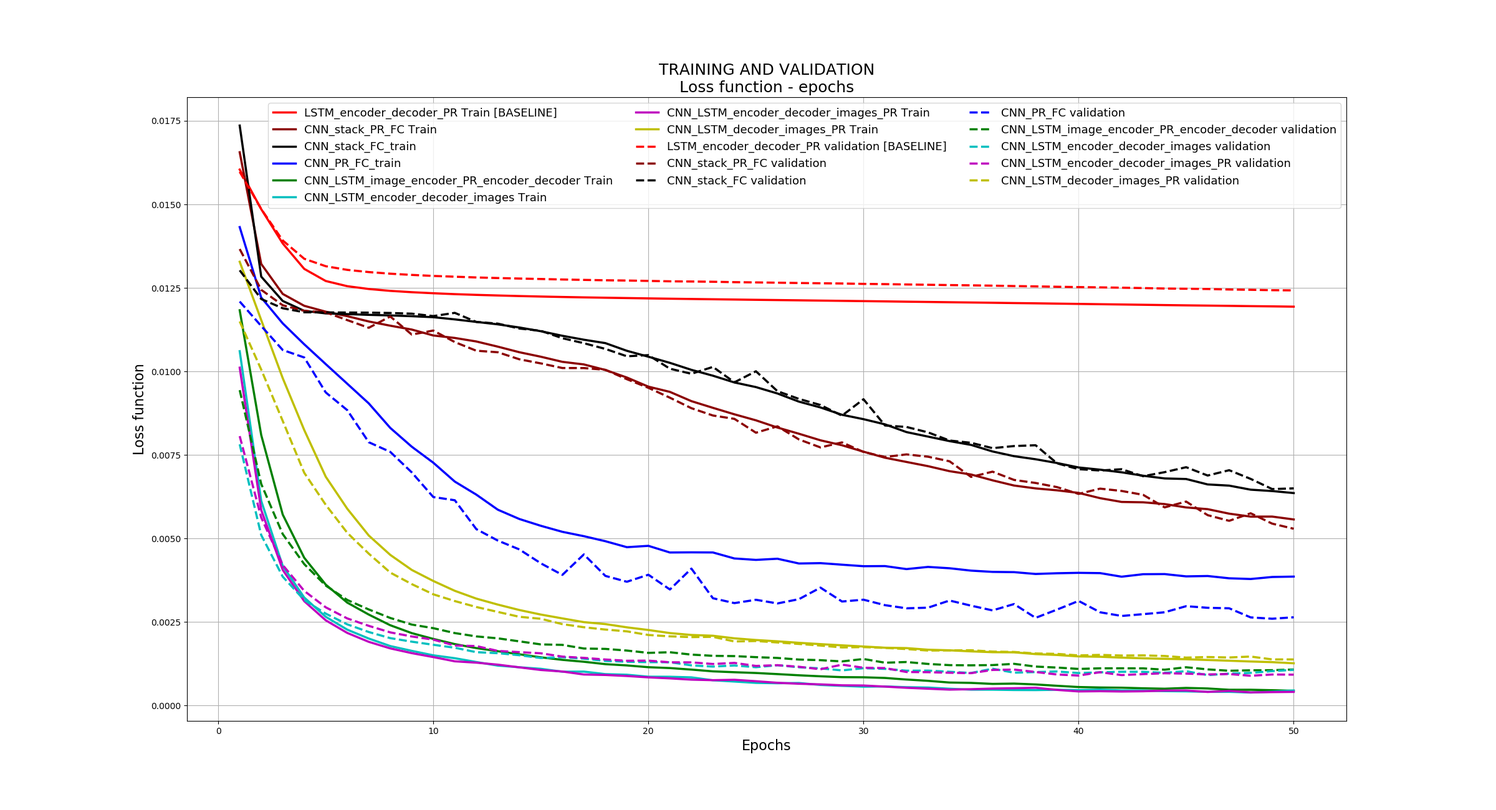
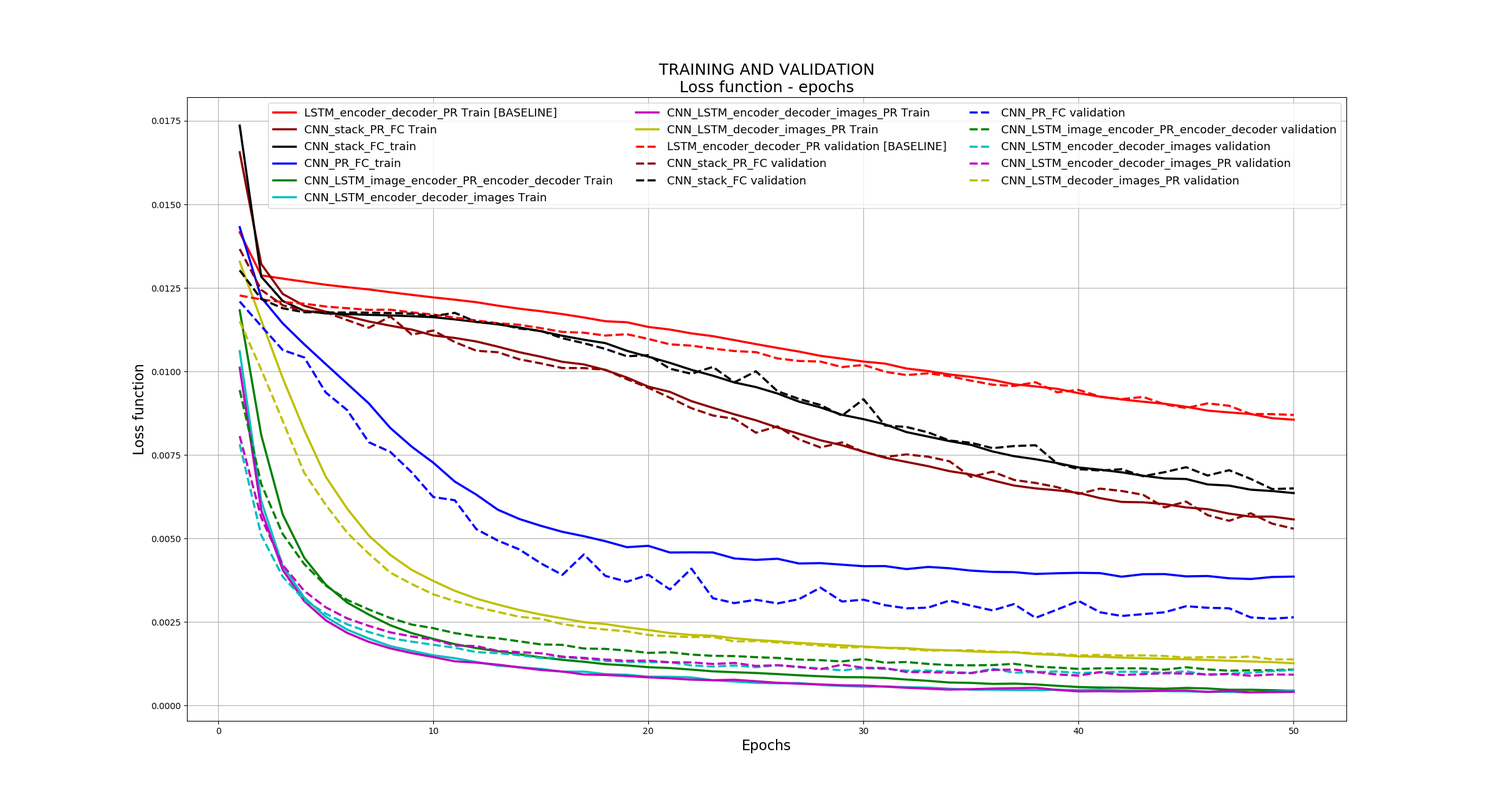
update files

diff --git a/Pre/test.py b/Pre/test.py
@@ -131,8 +131,8 @@ def main(args, num_epochs = 30):
             args['model_type']      (str): model type
             args['encoder_latent_vector'] (int): size of encoder latent vector
             args['decoder_latent_vector'] (int): size of decoder latent vector
-            args['time_to_predict']         (int): number of seconds to predict
-            args['use_sec']          (int): number of seconds using like input
+            args['future_window_size']         (int): number of seconds to predict
+            args['past_window_size']          (int): number of seconds using like input
             args['frame_interval']   (int): interval at witch the data was generated
             args["weight_decay"]     (float): L2 penalty
             args["use_n_episodes"]   (int): number of episodes use for work
@@ -158,8 +158,8 @@ def main(args, num_epochs = 30):
     encoder_latent_vector = args['encoder_latent_vector']
     decoder_latent_vector = args['decoder_latent_vector']
     evaluate_print = 1
-    time_to_predict = args['time_to_predict']              # 5
-    use_sec = args['use_sec']                # 5,
+    future_window_size = args['future_window_size']              # 5
+    past_window_size = args['past_window_size']                # 5,
     frame_interval = args['frame_interval']  # 12
     weight_decay = args["weight_decay"]      # 1e-3
     use_n_episodes = args["use_n_episodes"]    # 320
@@ -168,8 +168,8 @@ def main(args, num_epochs = 30):
     print(args)
 
     im_in_one_second = int(24/frame_interval)
-    predict_n_pr = im_in_one_second*time_to_predict
-    use_n_im = im_in_one_second*use_sec
+    predict_n_pr = im_in_one_second*future_window_size
+    use_n_im = im_in_one_second*past_window_size
     use_LSTM = False
     use_stack = False
     use_n_channels = 3
@@ -204,7 +204,7 @@ def main(args, num_epochs = 30):
     today = datetime.now().strftime("%Y-%m-%d %H:%M:%S")
 
     # Create folders for results
-    base_dir = "./Pre/results"+test_dir+"/test_"+ model_type +"_using_" +str(use_sec)+  "_s_to_predict_"+str(time_to_predict)+ "_s_lr_" + str(learning_rate) + "_" + today
+    base_dir = "./Pre/results"+test_dir+"/test_"+ model_type +"_using_" +str(past_window_size)+  "_s_to_predict_"+str(future_window_size)+ "_s_lr_" + str(learning_rate) + "_" + today
     ress_dir = base_dir+ "/result"
     lable_dir = base_dir+ "/labels"
     weight_dir = base_dir + "/weight"
@@ -219,7 +219,7 @@ def main(args, num_epochs = 30):
 
     # parametres for different models
 
-    tmp_str = '/' + model_type + "_predict_" + str(time_to_predict) + "_s_using_" + str(use_sec) + "_s_lr_" + str(learning_rate)
+    tmp_str = '/' + model_type + "_predict_" + str(future_window_size) + "_s_using_" + str(past_window_size) + "_s_lr_" + str(learning_rate)
 
     # split our dataset for three parts
     _ , _, test_labels = loadLabels(train_folder, 0, use_n_episodes, seq_per_ep, p_train=0.7, p_val=0.15, p_test=0.15)
@@ -248,8 +248,8 @@ def main(args, num_epochs = 30):
     n_test = len(test_loader)*batchsize
 
     if change_fps:
-        predict_n_pr = time_to_predict
-        use_n_im = use_sec
+        predict_n_pr = future_window_size
+        use_n_im = past_window_size
 
     print("Model  --->  ", model_type)
     if model_type == "CNN_stack_PR_FC":
@@ -261,7 +261,7 @@ def main(args, num_epochs = 30):
     elif model_type == "CNN_stack_FC":
         model = CNN_stack_FC(cuda = cuda, num_channel = use_n_channels,  cnn_fc_size = 1024, num_output=predict_n_pr*2)
     elif model_type == "CNN_LSTM_encoder_decoder_images_PR":
-        model = CNN_LSTM_encoder_decoder_images_PR(cuda = cuda, encoder_input_size = use_sec*1026, encoder_hidden_size = encoder_latent_vector, decoder_input_size = encoder_latent_vector, decoder_hidden_size = decoder_latent_vector,  output_size = 2*time_to_predict)
+        model = CNN_LSTM_encoder_decoder_images_PR(cuda = cuda, encoder_input_size = use_n_im*1026, encoder_hidden_size = encoder_latent_vector, decoder_input_size = encoder_latent_vector, decoder_hidden_size = decoder_latent_vector,  output_size = 2*predict_n_pr)
     elif model_type == "LSTM_encoder_decoder_PR":
         model = LSTM_encoder_decoder_PR(cuda = cuda, encoder_input_size = use_n_im*2, encoder_hidden_size = 300, decoder_hidden_size = 300,  output_size = 2*predict_n_pr)
     elif model_type == "CNN_LSTM_encoder_decoder_images":
@@ -305,10 +305,10 @@ def main(args, num_epochs = 30):
     with th.no_grad():
 
         # Preparation files for saving origin and predicted pitch and roll for visualization
-        origins = [{} for i in range(time_to_predict)]
-        origin_names = [lable_dir+ '/origin' + model_type +'_use_' + str(use_sec) + '_s_to_predict_'+str(i+1)+':'+str(time_to_predict)+'_lr_'+str(learning_rate)+'.json' for i in range(time_to_predict)]
-        preds = [{} for i in range(time_to_predict)]
-        pred_names = [lable_dir+'/pred' + model_type +'_use_' + str(use_sec) + '_s_to_predict_'+str(i+1)+':'+str(time_to_predict)+'_lr_'+str(learning_rate)+'.json' for i in range(time_to_predict)]
+        origins = [{} for i in range(predict_n_pr)]
+        origin_names = [lable_dir+ '/origin' + model_type +'_use_' + str(past_window_size) + '_s_to_predict_'+str(i+1)+':'+str(future_window_size)+'_lr_'+str(learning_rate)+'.json' for i in range(predict_n_pr)]
+        preds = [{} for i in range(predict_n_pr)]
+        pred_names = [lable_dir+'/pred' + model_type +'_use_' + str(past_window_size) + '_s_to_predict_'+str(i+1)+':'+str(future_window_size)+'_lr_'+str(learning_rate)+'.json' for i in range(predict_n_pr)]
 
         for key, data  in enumerate(test_loader):
             # use right testing process for different models
@@ -321,7 +321,7 @@ def main(args, num_epochs = 30):
                 # Convert to pytorch variables
                 inputs, p_and_roll = Variable(inputs), Variable(p_and_roll)
                 # test through the sequence
-                loss, origins, preds  = test(cuda, change_fps, key, origins, preds , batchsize, inputs, p_and_roll, model, loss_fn, time_to_predict, use_sec, use_2_encoders)
+                loss, origins, preds  = test(cuda, change_fps, key, origins, preds , batchsize, inputs, p_and_roll, model, loss_fn, predict_n_pr, use_n_im, use_2_encoders)
                 test_loss += loss
 
             else:
@@ -347,7 +347,7 @@ def main(args, num_epochs = 30):
                 loss = loss_fn(predictions, targets)/ predict_n_pr
                 test_loss += loss.item()
 
-        for i in range(time_to_predict):
+        for i in range(predict_n_pr):
             json.dump(preds[i], open(pred_names[i],'w'))
             json.dump(origins[i], open(origin_names[i],'w'))
 
@@ -385,14 +385,14 @@ if __name__ == '__main__':
     parser.add_argument('--seed', help='Random Seed', default=42, type=int)
     parser.add_argument('--no_cuda', action='store_true', default=False, help='Disables CUDA training')
 
-    parser.add_argument('--load_weight_file', help='Enter path to file with saved weight', default="Pre/results/train_CNN_LSTM_encoder_decoder_images_PR_using_20_s_to_predict_30_s_lr_0.0001937_2019-08-12 18_29_35/weight/CNN_LSTM_encoder_decoder_images_PR_predict_30_s_using_20_s_lr_0.0001937_tmp.pth", type=str, )
+    parser.add_argument('--load_weight_file', help='Enter path to file with saved weight', default="Pre/results/train_CNN_LSTM_encoder_decoder_images_PR_using_20_s_to_predict_30_s_lr_0.0001937_2019-08-12 18_29_35/weight/CNN_LSTM_encoder_decoder_images_PR_predict_30_s_using_20_s_lr_0.0001937_tmp.pth", type=str)
 
     parser.add_argument('--model_type', help='Model type: cnn', default="CNN_LSTM_encoder_decoder_images_PR", type=str, choices=['CNN_stack_FC_first', 'CNN_stack_FC', 'CNN_LSTM_image_encoder_PR_encoder_decoder', 'CNN_PR_FC', 'CNN_LSTM_encoder_decoder_images', 'LSTM_encoder_decoder_PR', 'CNN_stack_PR_FC', 'CNN_LSTM_encoder_decoder_images_PR', 'CNN_LSTM_decoder_images_PR'])
     parser.add_argument('--encoder_latent_vector', help='Size of encoder-latent vector for LSTM', default= 700, type=int)
     parser.add_argument('--decoder_latent_vector', help='Size of decoder-latent vector for LSTM', default= 408, type=int)
 
-    parser.add_argument('-t', '--time_to_predict', help='Time (seconds) to predict', default= 30, type=int)
-    parser.add_argument('-u', '--use_sec', help='How many seconds using for prediction ', default= 20, type=int)
+    parser.add_argument('-fws', '--future_window_size', help='Time (seconds) to predict', default= 30, type=int)
+    parser.add_argument('-pws', '--past_window_size', help='How many seconds using for prediction ', default= 20, type=int)
     parser.add_argument('--frame_interval', help='frame_interval which used for data generetion ', default= 12, type=int)
     parser.add_argument('-wd', '--weight_decay', help='Weight_decay', default=0.00093501455, type=float)
     parser.add_argument('--use_n_episodes', help='How many episodes use as dataset ', default= 540, type=int)
@@ -412,8 +412,8 @@ if __name__ == '__main__':
     hyperparams['model_type'] = args.model_type
     hyperparams['encoder_latent_vector'] = args.encoder_latent_vector
     hyperparams['decoder_latent_vector'] = args.decoder_latent_vector
-    hyperparams['time_to_predict'] = args.time_to_predict
-    hyperparams['use_sec'] = args.use_sec
+    hyperparams['future_window_size'] = args.future_window_size
+    hyperparams['past_window_size'] = args.past_window_size
     hyperparams['frame_interval'] = args.frame_interval
     hyperparams["weight_decay"] = args.weight_decay
     hyperparams["use_n_episodes"] = args.use_n_episodes

diff --git a/Pre/help_plot.py b/Pre/help_plot.py
@@ -26,9 +26,9 @@ CNN_LSTM_decoder_images_PR_test = np.array([ 0.0010822582281316104 for i in rang
 CNN_LSTM_decoder_images_PR_train = 10**(-2)*np.array([1.3282508666103032, 1.1539375038957724, 0.97992332371813, 0.8246508173270679, 0.6848861787161092, 0.5890530100139025, 0.5089064859735069, 0.450892181312632, 0.40584170112660073, 0.3728213533091502, 0.3433560807338005, 0.32004403371003365, 0.30212311998784114, 0.2858774395205588, 0.2722886361775913, 0.2608024798113332, 0.24958262937710918, 0.24381215887738383, 0.2340264998937166, 0.22607153343323846, 0.2168821639925455, 0.2111716200948082, 0.20887598146661102, 0.20113117971180483, 0.19608591299330463, 0.1921691887554676, 0.1877021430040239, 0.18378249770130523, 0.18010896532112017, 0.17663763750905312, 0.17301777501233376, 0.17187591011245404, 0.16702508527157983, 0.16526584238094347, 0.16212450076682378, 0.15965189720507322, 0.1592206139464639, 0.15401506041657298, 0.15130033549655722, 0.14703280007046077, 0.14595987039908606, 0.143354821125693, 0.14133935645689993, 0.1398486552983656, 0.1385273096422034, 0.13623565692441225, 0.13414565010637206, 0.131796836338964, 0.12984643456622905, 0.12644674010594847])
 CNN_LSTM_decoder_images_PR_val =  10**(-2)*np.array([1.149647639443477, 1.0056505631655455, 0.8519152800242106, 0.6966480612754822, 0.6007877939070264, 0.5169874165828029, 0.4545799115051826, 0.3979080294569334, 0.36340940510854125, 0.33288830736031133, 0.31267232028767467, 0.2949138443606595, 0.28017328974480427, 0.2656097508346041, 0.25965356345598894, 0.243650972067068, 0.23429338509837788, 0.2273747088232388, 0.2220046225314339, 0.21108785488953194, 0.2071071621806671, 0.20476242488560578, 0.20562237710691988, 0.1917591974294434, 0.1931646792218089, 0.1887707928350816, 0.18429883134861788, 0.17954336867357293, 0.1739248641145726, 0.17485990771092474, 0.17250529606826603, 0.16902335453778505, 0.16454825294204056, 0.16498798737302423, 0.1654624737178286, 0.16142277939555544, 0.16032095222423473, 0.1558125791295121, 0.15454992380303642, 0.14989656629040837, 0.15157869881174219, 0.14963105282125375, 0.15007653661693138, 0.1482540943349401, 0.14339420711621642, 0.14510116113039356, 0.14379899250343442, 0.1465887106799831, 0.13804519393791756, 0.1380148386427512])
 
-LSTM_encoder_decoder_PR_test = np.array([ 0.01237753080943274 for i in range(50)])
-LSTM_encoder_decoder_PR_train = 10**(-2)*np.array([1.6042345406566845, 1.4858389182465401, 1.3831916674707374, 1.3069532316257344, 1.2706737445191816, 1.2551561034291137, 1.2467678371281858, 1.2411398545620924, 1.2371898787294298, 1.2340232835593798, 1.231358934801521, 1.229174115698362, 1.2273524953911068, 1.225634429650051, 1.2241827378525063, 1.2228801557530007, 1.2216839941007132, 1.220597549017968, 1.2196077395507947, 1.218615832461163, 1.217711358438477, 1.2168495456361152, 1.2160356479353465, 1.2151986838595823, 1.2143556656091348, 1.2136249542104227, 1.2128563171767808, 1.2120468992779547, 1.2112619094418509, 1.2104652188751346, 1.2096434443568191, 1.208788588814807, 1.2080040233992437, 1.2071555506781482, 1.2063450063578784, 1.2055288962293285, 1.204610905685984, 1.203865915246255, 1.2029862278207133, 1.2021115327135046, 1.2012342024092557, 1.2003617167988039, 1.1995087793849886, 1.198613537964246, 1.1977963385680783, 1.1970430507707732, 1.1962816695078335, 1.1954311167504241, 1.1947329544151821, 1.1938847865618714])
-LSTM_encoder_decoder_PR_val = 10**(-2)*np.array([1.5974945433083036, 1.4861858760317168, 1.3920839018528424, 1.3372436491033388, 1.3149236284551165, 1.303979470616295, 1.2974278616999824, 1.2925825392206511, 1.2888954686267036, 1.2858637652936438, 1.2835664704205498, 1.2813149197470575, 1.2795214378644548, 1.278016831548441, 1.2766804457420395, 1.2751997995471198, 1.2739571343575204, 1.2728512080179322, 1.2720754133566978, 1.2709589379410895, 1.2697516541395868, 1.2691691310869324, 1.2684305627194663, 1.2672025651212722, 1.2664992510089799, 1.2655941473822745, 1.2646585377672361, 1.2638575530477933, 1.263232288202123, 1.2620213811123182, 1.261306834954118, 1.2603233317061076, 1.2593897325651986, 1.2584364603436182, 1.2576948023504682, 1.2567373436121714, 1.2555434885952208, 1.2545728198592625, 1.2534463866835548, 1.2524771371058054, 1.251628641630449, 1.250596527778913, 1.2495212936921725, 1.2481794618661441, 1.2474792521624338, 1.246755454866659, 1.2452018979404653, 1.2443368544890767, 1.24321011678567, 1.2425950447481775])
+LSTM_encoder_decoder_PR_test = np.array([ 0.007235203275753968 for i in range(50)])
+LSTM_encoder_decoder_PR_train = np.array([0.014165229788283721, 0.012875211949203177, 0.012778732004345105, 0.012686206021189262, 0.012594192796203184, 0.012521414780541987, 0.012453988394750062, 0.012370600395144956, 0.012292366615065964, 0.012215707958492326, 0.01214763929393129, 0.012072664738956532, 0.011968592886135356, 0.011878168570899194, 0.011802301151297425, 0.011715931777832329, 0.011614925077845973, 0.011502582092492384, 0.011471643109261775, 0.01133115718635233, 0.01125373868572135, 0.011138936341156027, 0.011055280254172382, 0.010937719832852109, 0.010817431334045625, 0.010703433712270097, 0.010593947891052478, 0.010466775723389186, 0.010382755709591733, 0.010295553633602716, 0.010235016858438865, 0.01008713954398709, 0.010011693195683555, 0.009909106191501395, 0.009836336300711691, 0.00974623435994737, 0.009614367355128557, 0.009551115984958346, 0.009479825768793356, 0.009349815454000213, 0.009243806116416464, 0.009162403409466094, 0.009092989444438915, 0.009032131676765753, 0.008942141815165465, 0.008826953472442738, 0.008772599263831065, 0.008726100737769757, 0.008599781978701818, 0.008555552147756128])
+LSTM_encoder_decoder_PR_val = np.array([0.012272268688927094, 0.012156021408736705, 0.012074279847244422, 0.012028381321579218, 0.011942439495275419, 0.011892160711189112, 0.011843404173851014, 0.011846507200971246, 0.011767149996012449, 0.011700845323503017, 0.01161170918494463, 0.011526711409290631, 0.011441395276536544, 0.01139592013011376, 0.011296294070780278, 0.011182355120157202, 0.011159159895032644, 0.011073671188205481, 0.011114929088701804, 0.010971920782079298, 0.01081076730042696, 0.010772396189471086, 0.010682146499554316, 0.010610604348282019, 0.010577893008788426, 0.010389495237420002, 0.0103132170625031, 0.010296403430402279, 0.010129606413344542, 0.010194719272355239, 0.009991677788396677, 0.009890421542028587, 0.009944636436800162, 0.009857278938094774, 0.00972411297261715, 0.009603220596909523, 0.009565110256274541, 0.00967754414305091, 0.009376846222827832, 0.009445877109343807, 0.009246470096210638, 0.009171370013306538, 0.009237806126475335, 0.009014942279706398, 0.00890328319122394, 0.009044212366764745, 0.008971970435231924, 0.008725419330100218, 0.008721979583303134, 0.008697197446599603])
 
 CNN_stack_PR_FC_test = np.array([ 0.005143027688237898 for i in range(50)])
 CNN_stack_PR_FC_train = np.array([0.016560708440594235, 0.013217757056238797, 0.012320067162432198, 0.011964624523589353, 0.011788254858539352, 0.011654528371884295, 0.01149572105638964, 0.0113689910624844, 0.01125349970270862, 0.011076344719666214, 0.011002177616388028, 0.010896864630510364, 0.010741888215976223, 0.010575076114860768, 0.010440142023517698, 0.010287487980435198, 0.010209802500815745, 0.01004346754217415, 0.009817515581160924, 0.00954458972588533, 0.009387889215810541, 0.009110628027591924, 0.0089106451816646, 0.00871633748822617, 0.008536617629634181, 0.00832053943304345, 0.008134811857434095, 0.007938415523759037, 0.00779042814041154, 0.0075981657565483505, 0.007417000391968649, 0.0072903857953002995, 0.007164668058976531, 0.007014508847858898, 0.006914894969668239, 0.0067404005171309385, 0.006584745294739545, 0.006498704386549949, 0.006441421681610902, 0.006364295741253234, 0.006206540337034484, 0.006093838326808698, 0.006082907618893275, 0.0060298477600434055, 0.005929388151996119, 0.005877657037860942, 0.005743025528609683, 0.005654015212609731, 0.0056556714555898785, 0.0055694865207802854])

diff --git a/Pre/train.py b/Pre/train.py
@@ -279,8 +279,8 @@ def main(args, num_epochs = 30):
             args['model_type']      (str): model type
             args['encoder_latent_vector'] (int): size of encoder latent vector
             args['decoder_latent_vector'] (int): size of decoder latent vector
-            args['time_to_predict']         (int): number of seconds to predict
-            args['use_sec']          (int): number of seconds using like input
+            args['future_window_size']         (int): number of seconds to predict
+            args['past_window_size']          (int): number of seconds using like input
             args['frame_interval']   (int): interval at witch the data was generated
             args["weight_decay"]     (float): L2 penalty
             args["use_n_episodes"]   (int): number of episodes use for work
@@ -305,8 +305,8 @@ def main(args, num_epochs = 30):
     encoder_latent_vector = args['encoder_latent_vector']
     decoder_latent_vector = args['decoder_latent_vector']
     evaluate_print = 1
-    time_to_predict = args['time_to_predict']              # 5
-    use_sec = args['use_sec']                # 5,
+    future_window_size = args['future_window_size']              # 5
+    past_window_size = args['past_window_size']                # 5,
     frame_interval = args['frame_interval']  # 12
     weight_decay = args["weight_decay"]      # 1e-3
     use_n_episodes = args["use_n_episodes"]    # 540
@@ -316,8 +316,8 @@ def main(args, num_epochs = 30):
 
     im_in_one_second = int(24/frame_interval)
 
-    predict_n_pr = im_in_one_second*time_to_predict
-    use_n_im = im_in_one_second*use_sec
+    predict_n_pr = im_in_one_second*future_window_size
+    use_n_im = im_in_one_second*past_window_size
 
     use_LSTM = False
     use_stack = False
@@ -358,7 +358,7 @@ def main(args, num_epochs = 30):
         today = datetime.now().strftime("%Y-%m-%d %H:%M:%S")
 
     # Create folders for results
-    base_dir = "./Pre/results"+test_dir+"/train_"+ model_type +"_using_" +str(use_sec)+  "_s_to_predict_"+str(time_to_predict)+ "_s_lr_" + str(learning_rate) + "_" + today
+    base_dir = "./Pre/results"+test_dir+"/train_"+ model_type +"_using_" +str(past_window_size)+  "_s_to_predict_"+str(future_window_size)+ "_s_lr_" + str(learning_rate) + "_" + today
     ress_dir = base_dir+ "/result"
     lable_dir = base_dir+ "/labels"
     weight_dir = base_dir + "/weight"
@@ -374,7 +374,7 @@ def main(args, num_epochs = 30):
 
     # parametres for different models
 
-    tmp_str = '/' + model_type + "_predict_" + str(time_to_predict) + "_s_using_" + str(use_sec) + "_s_lr_" + str(learning_rate)
+    tmp_str = '/' + model_type + "_predict_" + str(future_window_size) + "_s_using_" + str(past_window_size) + "_s_lr_" + str(learning_rate)
     best_model_weight_path = weight_dir + tmp_str + "_tmp.pth"
 
     # split our dataset for three parts
@@ -436,8 +436,8 @@ def main(args, num_epochs = 30):
     n_train, n_val, n_test = len(train_loader)*batchsize, len(val_loader)*batchsize, len(test_loader)*batchsize
 
     if change_fps:
-        predict_n_pr = time_to_predict
-        use_n_im = use_sec
+        predict_n_pr = future_window_size
+        use_n_im = past_window_size
 
     print("Model  --->  ", model_type)
     if model_type == "CNN_stack_PR_FC":
@@ -473,7 +473,7 @@ def main(args, num_epochs = 30):
 
     # Load model's weights
     if load_weight:
-        model.load_state_dict(torch.load(weight_dir+"/" + model_type + "_predict_" + str(time_to_predict) + "_s_using_" + str(use_sec) + "_s_lr_" + str(learning_rate) + "_tmp.pth"))
+        model.load_state_dict(torch.load(weight_dir+"/" + model_type + "_predict_" + str(future_window_size) + "_s_using_" + str(past_window_size) + "_s_lr_" + str(learning_rate) + "_tmp.pth"))
 
     # Move model to the GPU if possible
     if cuda:
@@ -646,9 +646,9 @@ def main(args, num_epochs = 30):
 
         # Preparation files for saving origin and predicted pitch and roll for visualization
         origins = [{} for i in range(predict_n_pr)]
-        origin_names = [lable_dir+ '/origin' + model_type +'_use_' + str(use_sec) + '_s_to_predict_'+str(i+1)+':'+str(predict_n_pr)+'_lr_'+str(learning_rate)+'.json' for i in range(predict_n_pr)]
+        origin_names = [lable_dir+ '/origin' + model_type +'_use_' + str(past_window_size) + '_s_to_predict_'+str(i+1)+':'+str(predict_n_pr)+'_lr_'+str(learning_rate)+'.json' for i in range(predict_n_pr)]
         preds = [{} for i in range(predict_n_pr)]
-        pred_names = [lable_dir+'/pred' + model_type +'_use_' + str(use_sec) + '_s_to_predict_'+str(i+1)+':'+str(predict_n_pr)+'_lr_'+str(learning_rate)+'.json' for i in range(predict_n_pr)]
+        pred_names = [lable_dir+'/pred' + model_type +'_use_' + str(past_window_size) + '_s_to_predict_'+str(i+1)+':'+str(predict_n_pr)+'_lr_'+str(learning_rate)+'.json' for i in range(predict_n_pr)]
 
         for key, data  in enumerate(test_loader):
             # use right testing process for different models
@@ -718,7 +718,7 @@ def main(args, num_epochs = 30):
 if __name__ == '__main__':
     parser = argparse.ArgumentParser(description='Train a line detector')
     parser.add_argument('-tf', '--train_folder', help='Training folder', type=str, required=True)
-    parser.add_argument('--num_epochs', help='Number of epoch', default= 60, type=int)
+    parser.add_argument('--num_epochs', help='Number of epoch', default= 50, type=int)
     parser.add_argument('--batchsize', help='Batch size', default= 24, type=int)
     parser.add_argument('-lr', '--learning_rate', help='Learning rate', default=0.0001, type=float)
     parser.add_argument('--opt', help='Choose optimizer: cnn', default="adam", type=str, choices=['adam', 'sgd'])
@@ -734,8 +734,8 @@ if __name__ == '__main__':
     parser.add_argument('--encoder_latent_vector', help='Size of encoder-latent vector for LSTM', default= 300, type=int)
     parser.add_argument('--decoder_latent_vector', help='Size of decoder-latent vector for LSTM', default= 300, type=int)
 
-    parser.add_argument('-t', '--time_to_predict', help='Time (seconds) to predict', default= 12, type=int)
-    parser.add_argument('-u', '--use_sec', help='How many seconds using for prediction ', default= 10, type=int)
+    parser.add_argument('-fws', '--future_window_size', help='Time (seconds) to predict', default= 12, type=int)
+    parser.add_argument('-pws', '--past_window_size', help='How many seconds using for prediction ', default= 10, type=int)
     parser.add_argument('--frame_interval', help='frame_interval which used for data generetion ', default= 12, type=int)
     parser.add_argument('-wd', '--weight_decay', help='Weight_decay', default=0.001, type=float)
     parser.add_argument('--use_n_episodes', help='How many episodes use as dataset ', default= 540, type=int)
@@ -759,8 +759,8 @@ if __name__ == '__main__':
         hyperparams['model_type'] = args.model_type
         hyperparams['encoder_latent_vector'] = args.encoder_latent_vector
         hyperparams['decoder_latent_vector'] = args.decoder_latent_vector
-        hyperparams['time_to_predict'] = args.time_to_predict
-        hyperparams['use_sec'] = args.use_sec
+        hyperparams['future_window_size'] = args.future_window_size
+        hyperparams['past_window_size'] = args.past_window_size
         hyperparams['frame_interval'] = args.frame_interval
         hyperparams["weight_decay"] = args.weight_decay
         hyperparams["use_n_episodes"] = args.use_n_episodes

diff --git a/Pre/plot_compare_predicted_and_original_PR.py b/Pre/plot_compare_predicted_and_original_PR.py
@@ -16,8 +16,8 @@ def denormalization(x, min_v = -90.0, max_v = 90.0 ):
 # Pre/results/test_CNN_LSTM_encoder_decoder_images_PR_using_20_s_to_predict_30_s_lr_0.0001115124882_2019-08-21 15:11:31/labels/predCNN_LSTM_encoder_decoder_images_PR_use_20_s_to_predict_1:30_lr_0.0001115124882.json
 # train_CNN_LSTM_encoder_decoder_images_PR_using_20_s_to_predict_30_s_lr_0.0001937_2019-08-12 18_29_35
 parser = argparse.ArgumentParser(description='Test a line detector')
-parser.add_argument('-o', '--origin_file', help="Original file. Ex: Pre/results/train_CNN_LSTM_encoder_decoder_images_PR_using_20_s_to_predict_30_s_lr_0.0001937_2019-08-12 18_29_35/labels/originCNN_LSTM_encoder_decoder_images_PR_use_20_s_to_predict_15_30_lr_0.0001937.json", type=str, required=True)
-parser.add_argument('-p', '--prediction_file', help="Predictin file. Ex: Pre/results/train_CNN_LSTM_encoder_decoder_images_PR_using_20_s_to_predict_30_s_lr_0.0001937_2019-08-12 18_29_35/labels/predCNN_LSTM_encoder_decoder_images_PR_use_20_s_to_predict_15_30_lr_0.0001937.json", type=str, required=True)
+parser.add_argument('-o', '--origin_file', help="Original file. Ex: Pre/results/train_LSTM_encoder_decoder_PR_using_10_s_to_predict_12_s_lr_0.0001_2019-08-24 22:40:34/labels/originLSTM_encoder_decoder_PR_use_10_s_to_predict_20:24_lr_0.0001.json", type=str, required=True)
+parser.add_argument('-p', '--prediction_file', help="Predictin file. Ex: Pre/results/train_LSTM_encoder_decoder_PR_using_10_s_to_predict_12_s_lr_0.0001_2019-08-24 22:40:34/labels/predLSTM_encoder_decoder_PR_use_10_s_to_predict_20:24_lr_0.0001.json", type=str, required=True)
 args = parser.parse_args()
 
 

diff --git a/Pre/README.md b/Pre/README.md
@@ -108,7 +108,7 @@ First, the basic settings were tested;
 The results of the experiments can be found in Table, which shows the normalized average MSE of the sum of pitch and roll over the predicted sequence (of 24 frames of length).
 
 <p align="center">
-<img width="900" src="plots/TRAIN_VAL_all_models_loss_function.png">
+<img width="900" src="plots/Results_for_all_models_train_val_test.png">
 </p>
 <p align="justify">
 
@@ -116,11 +116,22 @@ Red line - our baseline LSTM encoder decoder PR model, the worst result; Light g
 
 
 <p align="center">
-<img width="900" src="plots/TRAIN_TEST_all_models_loss_function.png">
+<img width="900" src="plots/Testting_results_for_all_models_PR.png">
 </p>
 <p align="justify">
 
 Testing results for all models. Denormalized MSE for pitch and roll at 10s in predicted sequences. Red line - our baseline and the worst result; Light green line - the best result at the moment; Strong green line - second result.
+
+
+<p align="center">
+<img width="900" src="plots/TRAIN_VAL_all_models_loss_function.png">
+</p>
+<p align="justify">
+
+<p align="center">
+<img width="900" src="plots/TRAIN_TEST_all_models_loss_function.png">
+</p>
+<p align="justify">
 
 # The best configuration
 
@@ -172,23 +183,46 @@ To run all scripts the presented environment is needed:
 
 `train.py`: used to train all models
 
+`autoencoder_train.py`: used to train autoencoder model
+
 `test.py`: used to predict all results
+
+`utils.py`: some useful functions
+
+`hyperband.py`: implementation of the Hyperband algorithm
+
+`get_hyperparameters_configuration.py`: define Hyperband space
+
+`earlyStopping.py`: implementation of the Early Stoping technique
+
+`help_plot.py, help_plot_2.py, help_plot_3.py `:  scripts to display some useful charts
+
+`plot_compare_predicted_and_original_PR.py`: script to plot original and predicted pitch and roll
+
+`plot_evolution_PR_over_predicted_seq.py`: script to plot evolution of predicted pitch and roll over sequence
 
 
 # Step guidance:
 
-1. download the code and add environment path by changing the code in `autoRun.sh`
+1. clone repository
 
-2. download the images dataset [here](https://drive.google.com/drive/folders/1RF8_wFfcIM0GIklXflPYv-tK3uaEWSSZ?usp=sharing) if you have not yet and put the dataset under the directory **3dmodel**
+2. create directory tree:
 
-3. for train, goto Pre's parent folder and run command:
+---> Pre
+------> 3dmodel
+------> results
+
+3. download the images dataset [here](https://drive.google.com/drive/folders/1RF8_wFfcIM0GIklXflPYv-tK3uaEWSSZ?usp=sharing) if you have not yet and put the dataset under the directory **3dmodel**
+
+4. for train, goto Pre's parent folder and run command:
+
 ```
-python3 -m Pre.train -tf Pre/3dmodel/test_4_episode_
+python3 -m Pre.train -tf Pre/3dmodel/test_4_episode_ --num_epochs 50 --batchsize 24 --learning_rate 0.001 --opt "adam" --seed 42 --no_cuda True --model_type "LSTM_encoder_decoder_PR" --encoder_latent_vector 300 --decoder_latent_vector 300 --future_window_size 20 --past_window_size 20 --frame_interval 12 --weight_decay 0.001 --use_n_episodes 540 --change_fps False --test 0
 ```
 
-4. for prediction, goto Pre's parent folder and run command:
+5. for prediction, goto Pre's parent folder and run command:
 ```
-python3 -m Pre.test -f Pre/3dmodel/test_4_episode_
+python3 -m Pre.test -f Pre/3dmodel/test_4_episode_ --num_epochs 50 --batchsize 24 --learning_rate 0.001 --opt "adam" --seed 42 --no_cuda True --load_weight_file "Pre/results/train_CNN_LSTM_encoder_decoder_images_PR_using_20_s_to_predict_30_s_lr_0.0001937_2019-08-12 18_29_35/weight/CNN_LSTM_encoder_decoder_images_PR_predict_30_s_using_20_s_lr_0.0001937_tmp.pth" --model_type "LSTM_encoder_decoder_PR" --encoder_latent_vector 300 --decoder_latent_vector 300 --future_window_size 20 --past_window_size 20 --frame_interval 12 --weight_decay 0.001 --use_n_episodes 540 --change_fps False
 ```
 
 # Some issues
